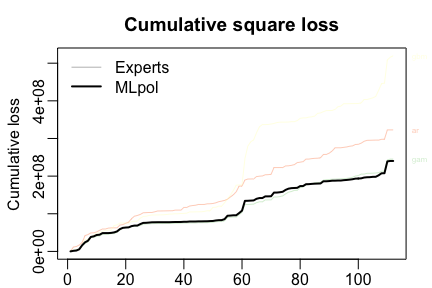
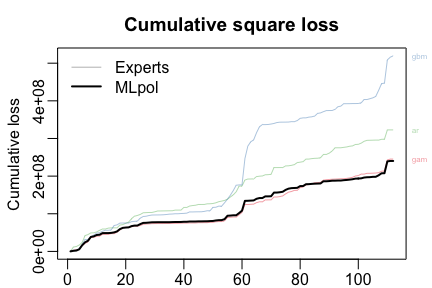
change color of example

diff --git a/README.md b/README.md
@@ -177,7 +177,7 @@ summary(MLpol)
 #>         rmse   mape
 #> MLpol   1460 0.0189
 #> Uniform 1520 0.0197
-plot(MLpol, pause = TRUE)
+plot(MLpol, pause = TRUE, col = brewer.pal(3,name = "Set1"))
 ```
 
 ![](inst/img/unnamed-chunk-13-1.png)<!-- -->![](inst/img/unnamed-chunk-13-2.png)<!-- -->![](inst/img/unnamed-chunk-13-3.png)<!-- -->![](inst/img/unnamed-chunk-13-4.png)<!-- -->![](inst/img/unnamed-chunk-13-5.png)<!-- -->![](inst/img/unnamed-chunk-13-6.png)<!-- -->
